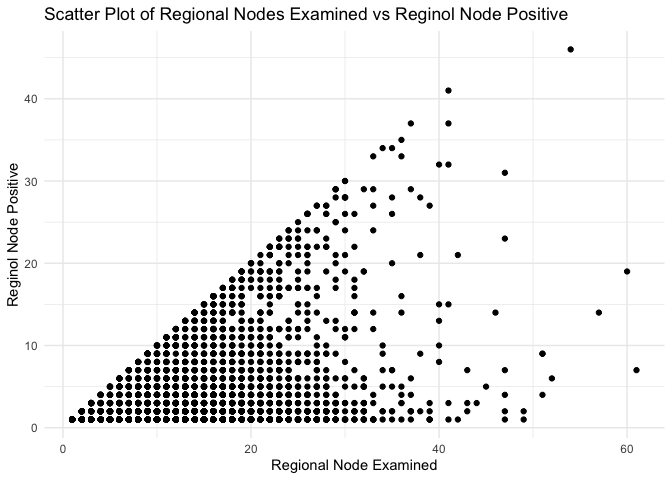
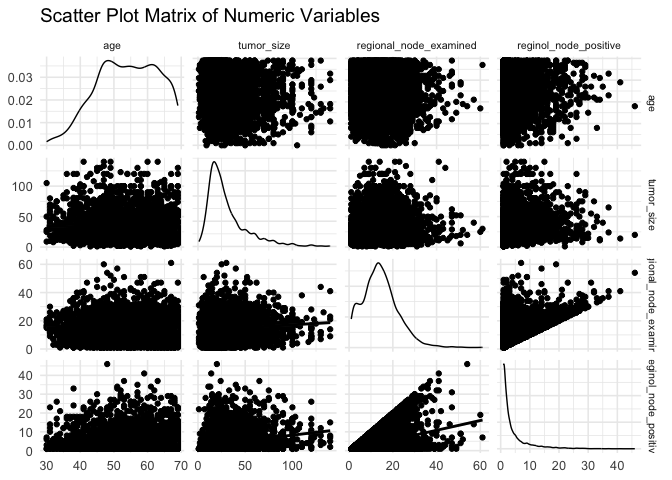
update code

diff --git a/Logistic-Model.md b/Logistic-Model.md
@@ -14,6 +14,7 @@ library(car)
 library(rsample)
 library(knitr)
 library(kableExtra)
+library(GGally)
 ```
 
 ### Load Data and Cleaning
@@ -44,21 +45,20 @@ data <- read.csv("Project_2_data.csv") |>
 
 ``` r
 grade_diff_table <- table(data$grade, data$differentiate)
-print(grade_diff_table)
+rownames(grade_diff_table) <- c("Grade=1", "Grade=2", "Grade=3", "Grade=4")
+
+knitr::kable(grade_diff_table,
+             caption = "Contingency Table of Grade vs Differentiate")
 ```
 
-    ##    
-    ##     Moderately differentiated Poorly differentiated Undifferentiated
-    ##   1                         0                     0                0
-    ##   2                      2351                     0                0
-    ##   3                         0                  1111                0
-    ##   4                         0                     0               19
-    ##    
-    ##     Well differentiated
-    ##   1                 543
-    ##   2                   0
-    ##   3                   0
-    ##   4                   0
+|  | Moderately differentiated | Poorly differentiated | Undifferentiated | Well differentiated |
+|:---|---:|---:|---:|---:|
+| Grade=1 | 0 | 0 | 0 | 543 |
+| Grade=2 | 2351 | 0 | 0 | 0 |
+| Grade=3 | 0 | 1111 | 0 | 0 |
+| Grade=4 | 0 | 0 | 19 | 0 |
+
+Contingency Table of Grade vs Differentiate
 
 ``` r
 data <- data |> select(-differentiate)
@@ -85,38 +85,47 @@ if (chisq_test_result$p.value < 0.05) {
     ## 6th Stage and N Stage are not independent，delete 6th Stage.
 
 ``` r
-scatter_plot <- ggplot(data, aes(x = regional_node_examined, y = reginol_node_positive)) +
-  geom_point() +  
-  labs(
-    title = "Scatter Plot of Regional Nodes Examined vs Reginol Node Positive",
-    x = "Regional Node Examined",
-    y = "Reginol Node Positive"
-  ) +
-  theme_minimal()
-scatter_plot
+numeric_data <- data |> select_if(is.numeric)
+
+scatter_matrix <- ggpairs(
+  numeric_data, 
+  upper = list(continuous = "points"), 
+  lower = list(continuous = "smooth"),
+  diag = list(continuous = "densityDiag"),  
+  axisLabels = "show",
+  title = "Scatter Plot Matrix of Numeric Variables"
+) +
+  theme_minimal(base_size = 12) + 
+  theme(strip.text = element_text(size = 8)) 
+print(scatter_matrix)
 ```
 
 ![](Logistic-Model_files/figure-gfm/unnamed-chunk-7-1.png)<!-- -->
 
 ``` r
-regional_cor_matrix <- cor(
-  data |> 
-    select(regional_node_examined, reginol_node_positive), use = "complete.obs")
-regional_cor_matrix
-```
+cor_matrix <- cor(numeric_data, use = "complete.obs")
 
-    ##                        regional_node_examined reginol_node_positive
-    ## regional_node_examined              1.0000000             0.4115797
-    ## reginol_node_positive               0.4115797             1.0000000
-
-``` r
 cor_matrix_plot <- ggplot(
-  data = as.data.frame(as.table(regional_cor_matrix)), aes(Var1, Var2, fill = Freq)) +
+  data = as.data.frame(as.table(cor_matrix)), 
+  aes(Var1, Var2, fill = Freq)) +
   geom_tile() +
-  scale_fill_gradient2(low = "blue", high = "red", mid = "white", midpoint = 0, limit = c(-1, 1)) +
-  theme_minimal() +
-  labs(title = "Correlation Matrix", x = "", y = "")
-cor_matrix_plot
+  scale_fill_gradient2(
+    low = "blue", high = "red", mid = "white", midpoint = 0, 
+    limit = c(-1, 1)
+  ) +
+  geom_text(aes(label = sprintf("%.2f", Freq)), color = "black", size = 4) +  
+  theme_minimal(base_size = 12) +
+  theme(
+    axis.text.x = element_text(angle = 30, hjust = 1),  
+    axis.text.y = element_text(size = 12),
+    plot.title = element_text(hjust = 0.5, size = 12)
+  ) +
+  labs(
+    title = "Correlation Matrix of Numeric Variables",
+    x = "",
+    y = ""
+  )
+print(cor_matrix_plot)
 ```
 
 ![](Logistic-Model_files/figure-gfm/unnamed-chunk-7-2.png)<!-- -->
